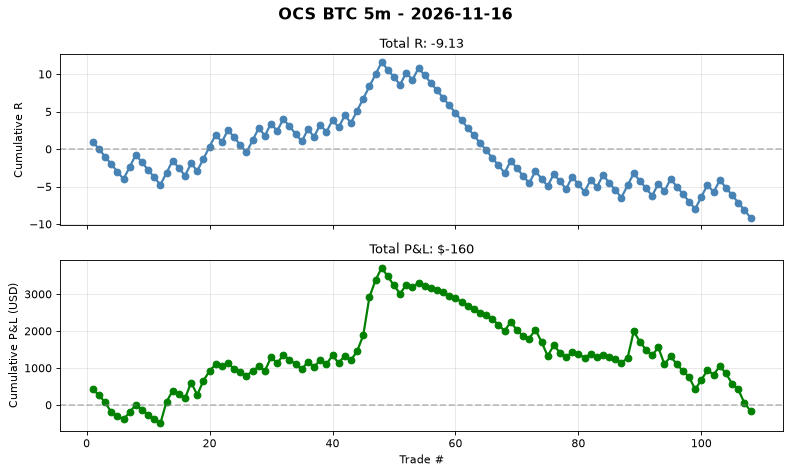
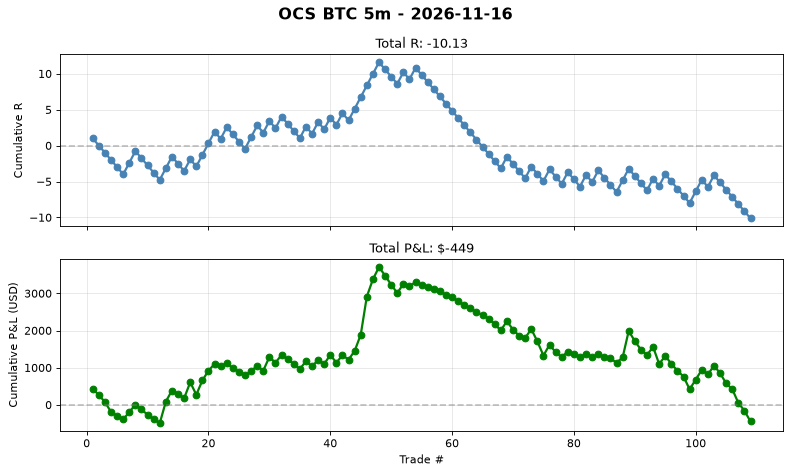
auto(ocs-btc): signal log 2026-11-15T20:57 trades=109

diff --git a/automation/reports/ocs_btc_5m/daily/2026-11-16.md b/automation/reports/ocs_btc_5m/daily/2026-11-16.md
@@ -2,4 +2,4 @@
 
 **No trades today.**
 
-Cumulative stats: 108 trades | WR 35.2% | avg R -0.085
+Cumulative stats: 109 trades | WR 34.9% | avg R -0.093
